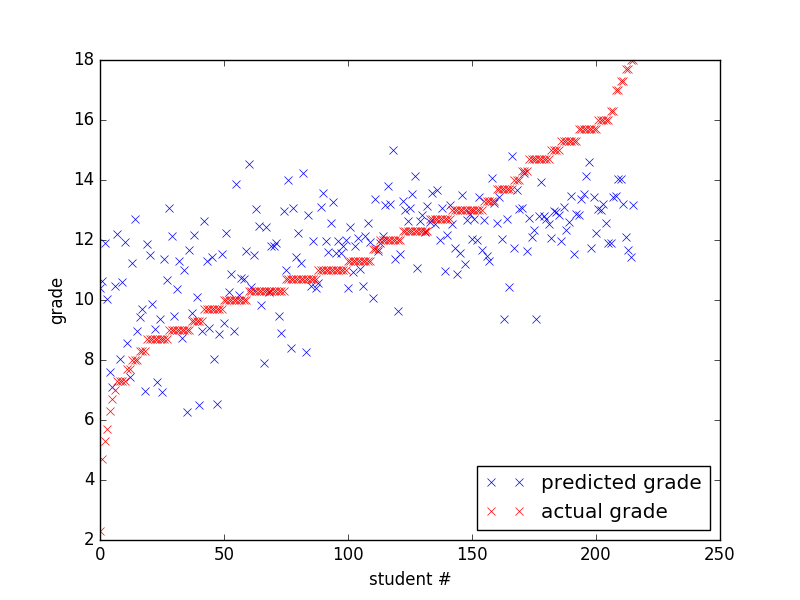
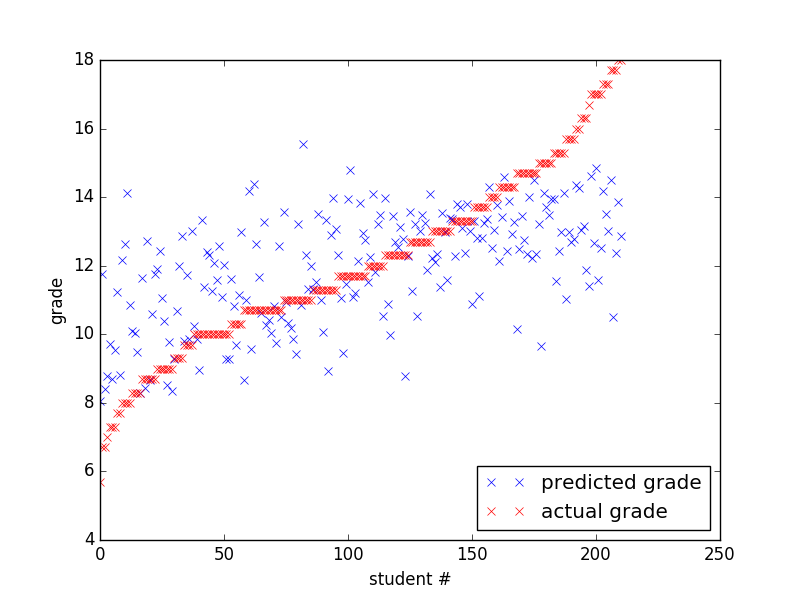
filter out records with G3 = 0 from dataset

diff --git a/preprocess/preprocess.py b/preprocess/preprocess.py
@@ -17,6 +17,9 @@ def save_csv(filename, data):
 		writer = csv.writer(csvfile, delimiter=',')
 		writer.writerows(data)
 
+def filter_row(x):
+	return int(x[32]) > 0
+
 def preprocess_row(x):
 	y = [
 		int(x[0] == 'GP'), # school
@@ -95,7 +98,7 @@ def main():
 	normalize = (len(sys.argv) == 4 and sys.argv[3] == '--normalize');
 
 	data = load_csv(in_file)
-	data = [ preprocess_row(row) for row in data ]
+	data = [ preprocess_row(row) for row in data if filter_row(row) ]
 
 	if (normalize):
 		data = [ normalize_row(row) for row in data ]
